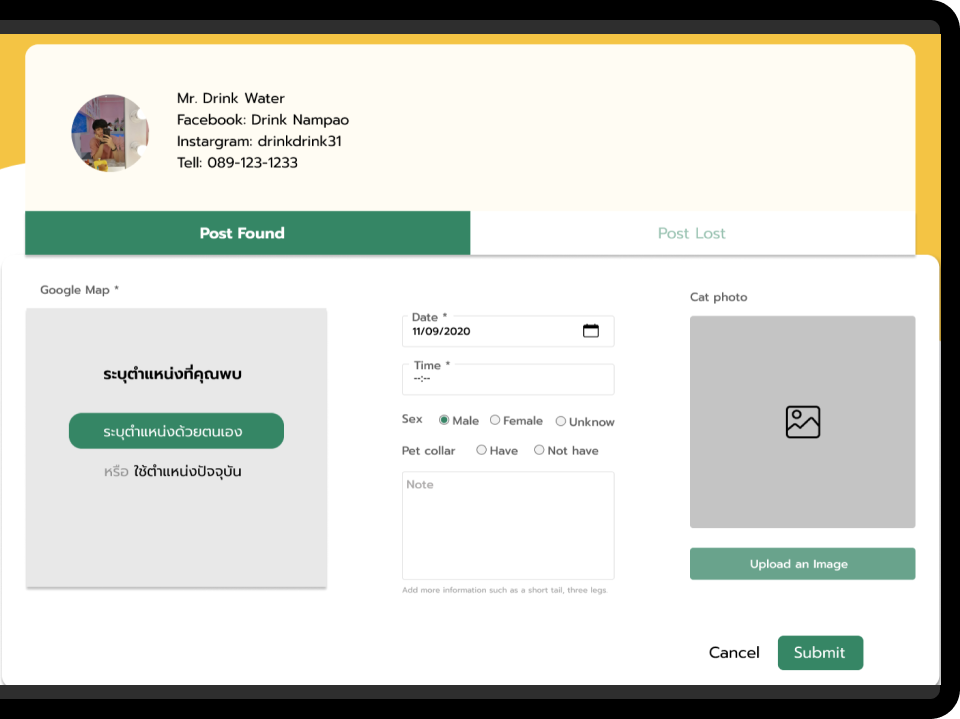
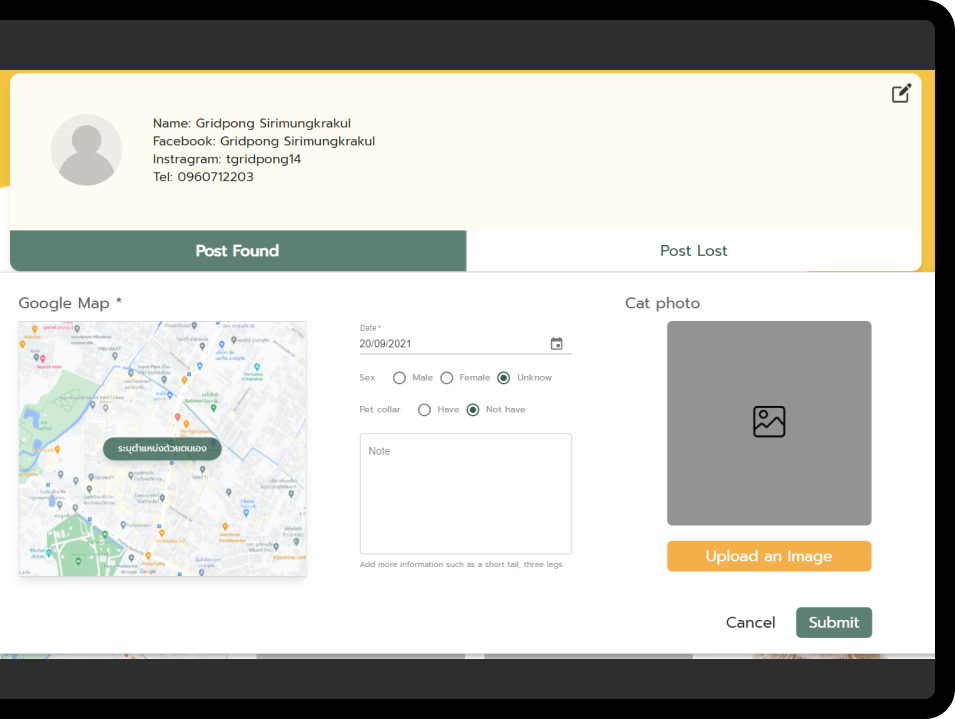
add: NewImg, img Howto Change: Bg, imgSteps

diff --git a/constants/IMAGES.js b/constants/IMAGES.js
@@ -1,6 +1,6 @@
 const IMAGES = {
     // Logo 
-    catModalHomePage: '/images/catModalHomePage.png',
+    catModalHomePage: '/images/catModalHomePageNew.png',
     bgDownBt:'/images/bg-downBt.png',
     downBt:'/images/downBt.png',
     crop:'/images/crop.png',
@@ -26,10 +26,12 @@ const IMAGES = {
     step5:'/images/step5.png',
     deviceRightfor4step:'/images/deviceRightfor4step.png',
     deviceLeftfor4step:'/images/deviceLeftfor4step.png',
-    scrollDown:'/images/scrollDown.png',
+    scrollDown:'/images/NewScrollDown.png',
     bgAccountHeader:'/images/bgAccountHeader.png',
     greenBg: '/images/greenBg.png',
     accountLink: '/images/accountLink.png',
+    whyUse1: '/images/whyUse1.png',
+    whyUse2: '/images/whyUse2.png'
 
 };
 export default IMAGES;
